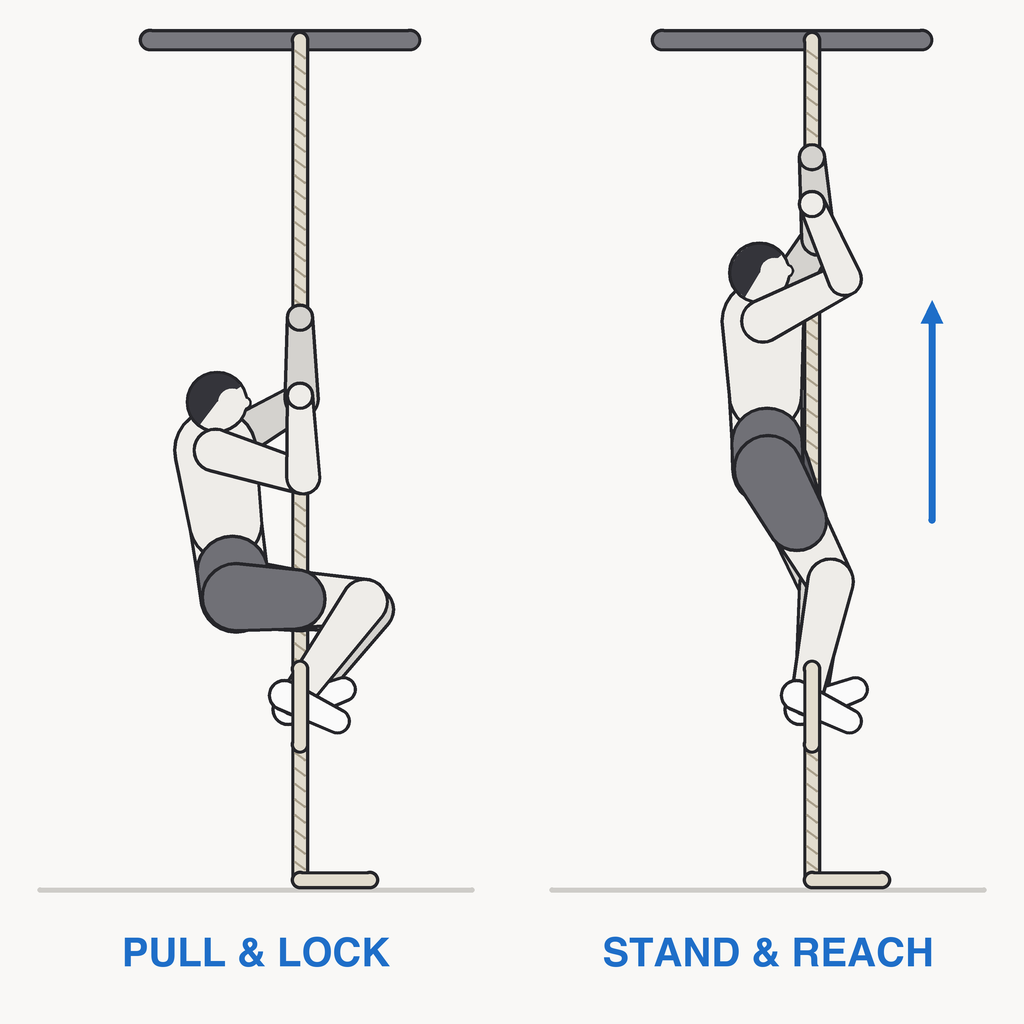
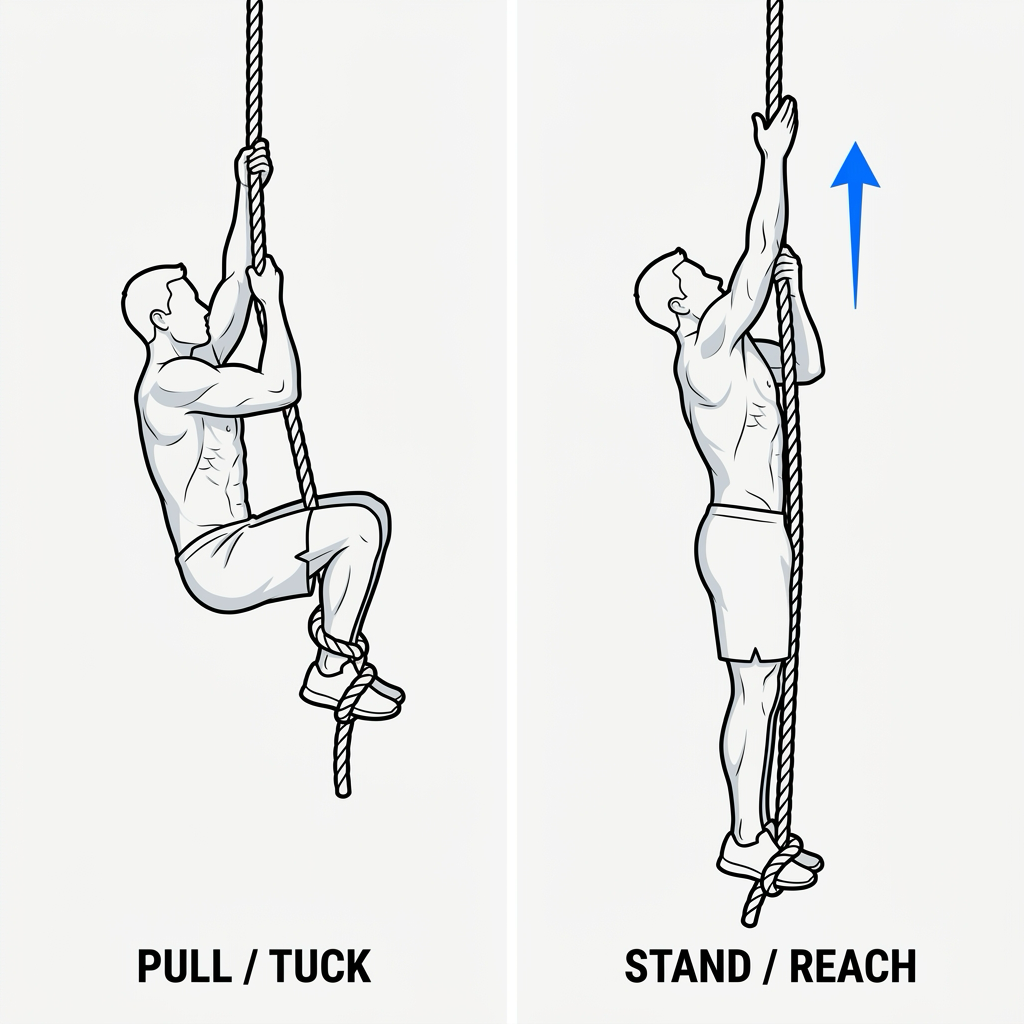
feat(images): publish 9 back and chest form-guide illustrations (rev 19)

diff --git a/FORM_GUIDE_IMAGE_TODO.md b/FORM_GUIDE_IMAGE_TODO.md
@@ -13,22 +13,14 @@ filename** in `remote/images/exercises/`, then in the app repo run
 `exerciseImages.revision` in `remote/manifest.json` (and the app repo's `data/remote/manifest.json`),
 push this repo and purge that image's jsDelivr URL. Re-running the script drops the row.
 
-_Last generated 2026-10-01 — 21 pending, 33 replaced._
+_Last generated 2026-10-01 — 13 pending, 41 replaced._
 
 ## Pending
 
 | | Exercise | Current image | Size |
 | --- | --- | --- | --- |
 | [ ] | Renegade Row | [`form.back-renegade-row.png`](remote/images/exercises/form.back-renegade-row.png) | 307 KB |
-| [ ] | Rope Climb | [`form.back-rope-climb.png`](remote/images/exercises/form.back-rope-climb.png) | 118 KB |
-| [ ] | Smith Machine Row | [`form.back-smith-machine-row.png`](remote/images/exercises/form.back-smith-machine-row.png) | 97 KB |
-| [ ] | Smith Machine Shrug | [`form.back-smith-machine-shrug.png`](remote/images/exercises/form.back-smith-machine-shrug.png) | 94 KB |
-| [ ] | Snatch-Grip High Pull | [`form.back-snatch-grip-high-pull.png`](remote/images/exercises/form.back-snatch-grip-high-pull.png) | 112 KB |
-| [ ] | Stability Ball Back Extension | [`form.back-stability-ball-back-extension.png`](remote/images/exercises/form.back-stability-ball-back-extension.png) | 136 KB |
-| [ ] | Superman Hold | [`form.back-superman-hold.png`](remote/images/exercises/form.back-superman-hold.png) | 50 KB |
-| [ ] | Wide-Grip Seated Cable Row | [`form.back-wide-grip-seated-cable-row.png`](remote/images/exercises/form.back-wide-grip-seated-cable-row.png) | 141 KB |
-| [ ] | Archer Push-Up | [`form.chest-archer-push-up.png`](remote/images/exercises/form.chest-archer-push-up.png) | 94 KB |
-| [ ] | Incline Cable Press | [`form.chest-incline-cable-press.png`](remote/images/exercises/form.chest-incline-cable-press.png) | 86 KB |
+| [ ] | Superman Hold | [`form.back-superman-hold.png`](remote/images/exercises/form.back-superman-hold.png) | 197 KB |
 | [ ] | Dumbbell Side Bend | [`form.core-dumbbell-side-bend.png`](remote/images/exercises/form.core-dumbbell-side-bend.png) | 99 KB |
 | [ ] | Feet-Elevated Side Plank | [`form.core-feet-elevated-side-plank.png`](remote/images/exercises/form.core-feet-elevated-side-plank.png) | 98 KB |
 | [ ] | Flutter Kick | [`form.core-flutter-kick.png`](remote/images/exercises/form.core-flutter-kick.png) | 95 KB |
@@ -49,59 +41,11 @@ _Last generated 2026-10-01 — 21 pending, 33 replaced._
 
 > Instructional form-guide: Renegade Row. Two panels, side three-quarter view of an athlete in a high plank gripping two hex dumbbells on the floor, feet wide. START: both dumbbells on the floor, body in a straight line. FINISH: one dumbbell rowed to the ribs, hips still level, the other hand pressing its dumbbell into the floor. Blue upward arrow beside the rowing elbow. Style: clean black line art, light gray shading, off-white background, blue arrows only, square 1:1, no photo-realism.
 
-### Rope Climb
-
-`form.back-rope-climb.png`
-
-> Instructional form-guide: Rope Climb. Two panels, side view of an athlete on a vertical gym rope. PULL: hands high, knees up, rope wrapped around one shin and pinched between the feet. STAND: legs straightened on the foot lock, hands reaching higher. Blue straight arrow upward. Style: clean black line art, light gray shading, off-white background, blue arrows only, square 1:1, no photo-realism.
-
-### Smith Machine Row
-
-`form.back-smith-machine-row.png`
-
-> Instructional form-guide: Smith Machine Row. Two panels, side view of an athlete standing close to a Smith machine, hinged to about 45° with a flat back and slightly bent knees, overhand grip on the Smith bar, the vertical rail visible behind the bar. START: arms straight, bar at knee height. FINISH: bar rowed to the lower ribs, elbows driven back, torso angle unchanged. Blue arrow pointing up along the rail. Style: clean black line art, light gray shading, off-white background, blue arrows only, square 1:1, no photo-realism.
-
-### Smith Machine Shrug
-
-`form.back-smith-machine-shrug.png`
-
-> Instructional form-guide: Smith Machine Shrug. Two panels, front three-quarter view of an athlete standing inside a Smith machine holding the guided bar in front of the thighs with straight arms. START: shoulders relaxed down. FINISH: shoulders shrugged straight up toward the ears. Blue upward arrows above both shoulders; vertical guide rails visible. Style: clean black line art, light gray shading, off-white background, blue arrows only, square 1:1, no photo-realism.
-
-### Snatch-Grip High Pull
-
-`form.back-snatch-grip-high-pull.png`
-
-> Instructional form-guide: Snatch-Grip High Pull. Two panels, side three-quarter view of an athlete with a wide snatch grip on a barbell. START: bar at mid-thigh, hips hinged, shoulders over the bar. FINISH: full hip and knee extension on the toes, shoulders shrugged, elbows high and out, bar at lower-chest height close to the body. Blue upward arrow along the bar path. Style: clean black line art, light gray shading, off-white background, blue arrows only, square 1:1, no photo-realism.
-
-### Stability Ball Back Extension
-
-`form.back-stability-ball-back-extension.png`
-
-> Instructional form-guide: Stability Ball Back Extension. Two panels, side view of an athlete lying face down over a large stability ball at the hips, feet wide on the floor against a wall, hands at the temples. START: chest rounded down over the ball. FINISH: body in a straight line from head to heels. Blue curved arrow upward. Style: clean black line art, light gray shading, off-white background, blue arrows only, square 1:1, no photo-realism.
-
 ### Superman Hold
 
 `form.back-superman-hold.png`
 
 > Instructional form-guide: Superman Hold. One held position, side view of an athlete lying face down on a mat, arms stretched overhead, arms, chest and straight legs lifted a few centimetres off the floor. A small blue timer icon labelled HOLD. Style: clean black line art, light gray shading, off-white background, blue arrows only, square 1:1, no photo-realism.
-
-### Wide-Grip Seated Cable Row
-
-`form.back-wide-grip-seated-cable-row.png`
-
-> Instructional form-guide: Wide-Grip Seated Cable Row. Two panels, three-quarter front view of an athlete seated at a low cable row station, feet on the platform, holding a long straight lat bar with a wide overhand grip. START: arms extended, torso upright. FINISH: bar pulled to the upper stomach, elbows flared out and back, shoulder blades squeezed. Blue straight arrow from the pulley toward the stomach. Style: clean black line art, light gray shading, off-white background, blue arrows only, square 1:1, no photo-realism.
-
-### Archer Push-Up
-
-`form.chest-archer-push-up.png`
-
-> Instructional form-guide: Archer Push-Up. Two panels, front three-quarter view of an athlete in a very wide high plank. START: both arms straight, body in one line. FINISH: chest lowered toward the right hand with the right elbow bent, left arm straight and extended out to the side. Blue diagonal arrow from centre toward the working hand. Style: clean black line art, light gray shading, off-white background, blue arrows only, square 1:1, no photo-realism.
-
-### Incline Cable Press
-
-`form.chest-incline-cable-press.png`
-
-> Instructional form-guide: Incline Cable Press. Two panels, side view of an athlete lying on an incline bench set near 30°, placed between two low cable pulleys, a D-handle in each hand. START: handles beside the chest, elbows slightly below the shoulders, cables running down to the low pulleys. FINISH: arms straight, handles above the upper chest. Blue arrow pointing up. Style: clean black line art, light gray shading, off-white background, blue arrows only, square 1:1, no photo-realism.
 
 ### Dumbbell Side Bend
 
@@ -204,3 +148,11 @@ _Last generated 2026-10-01 — 21 pending, 33 replaced._
 - [x] Overhead Shrug — `form.back-overhead-shrug.png`
 - [x] Pause Deadlift — `form.back-pause-deadlift.png`
 - [x] Power Shrug — `form.back-power-shrug.png`
+- [x] Rope Climb — `form.back-rope-climb.png`
+- [x] Smith Machine Row — `form.back-smith-machine-row.png`
+- [x] Smith Machine Shrug — `form.back-smith-machine-shrug.png`
+- [x] Snatch-Grip High Pull — `form.back-snatch-grip-high-pull.png`
+- [x] Stability Ball Back Extension — `form.back-stability-ball-back-extension.png`
+- [x] Wide-Grip Seated Cable Row — `form.back-wide-grip-seated-cable-row.png`
+- [x] Archer Push-Up — `form.chest-archer-push-up.png`
+- [x] Incline Cable Press — `form.chest-incline-cable-press.png`
